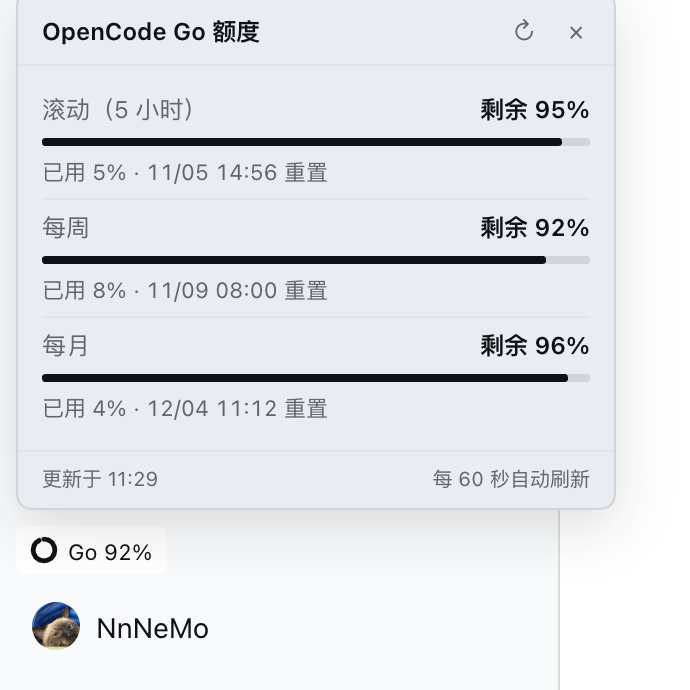
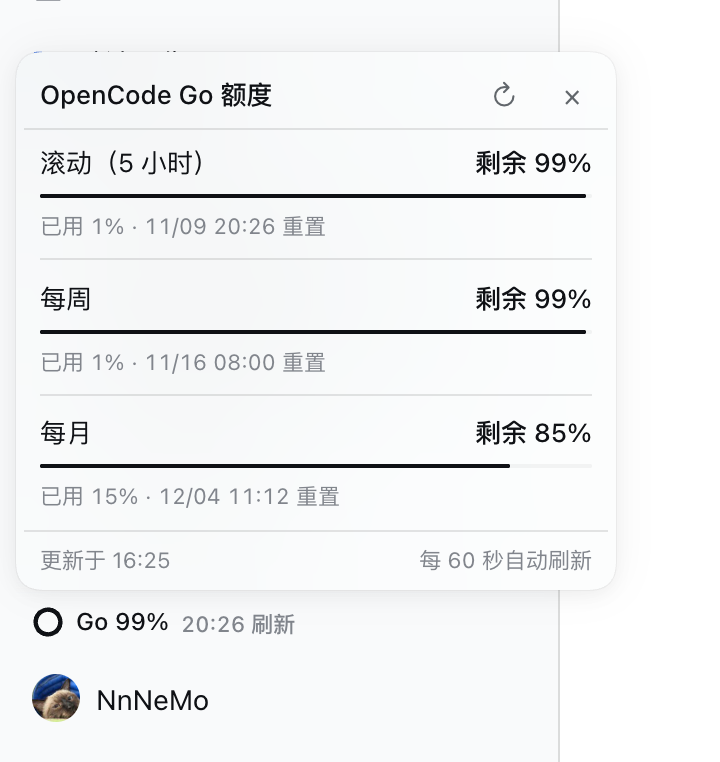
发布 @local/dsh-opencode-quota@0.1.2

diff --git a/plugins/dsh-opencode-quota/client.js b/plugins/dsh-opencode-quota/client.js
@@ -7,8 +7,9 @@
  * times.
  *
  * Numbers come from the Host route `GET /plugins/opencode-quota/usage`; the API
- * key stays in the Host process. The chip shows the *tightest* remaining window
- * so one glance answers "how much is left"; the popover carries the details.
+ * key stays in the Host process. The chip previews the rolling (5-hour) window —
+ * the one that refills fastest and therefore decides whether a heavy session can
+ * continue — and names the time it refreshes; the popover carries every window.
  */
 window.__ModuleLoader__.load({
   id: '@local/dsh-opencode-quota',
@@ -34,7 +35,9 @@ window.__ModuleLoader__.load({
 
     const zh = {
       'chip.label': 'Go',
-      'chip.title': 'OpenCode Go 剩余 {remaining}%',
+      'chip.title': 'OpenCode Go · 5 小时额度剩 {remaining}%',
+      'chip.reset': '{time} 刷新',
+      'chip.resetSoon': '即将刷新',
       'chip.unknown': 'OpenCode Go 额度',
       'panel.title': 'OpenCode Go 额度',
       'panel.refresh': '刷新',
@@ -58,7 +61,9 @@ window.__ModuleLoader__.load({
 
     const en = {
       'chip.label': 'Go',
-      'chip.title': 'OpenCode Go · {remaining}% left',
+      'chip.title': 'OpenCode Go · 5h quota {remaining}% left',
+      'chip.reset': 'resets {time}',
+      'chip.resetSoon': 'resets soon',
       'chip.unknown': 'OpenCode Go quota',
       'panel.title': 'OpenCode Go quota',
       'panel.refresh': 'Refresh',
@@ -162,25 +167,55 @@ window.__ModuleLoader__.load({
     }
 
     /**
-     * Summarize the windows as the chip shows them: the tightest remaining
-     * window, so one glance answers "how much is left".
+     * Format one reset timestamp as the short clock the chip shows beside the
+     * percentage: `HH:mm` on the same day, `MM/DD HH:mm` otherwise.
+     * @param iso - the upstream timestamp.
+     * @param localeId - the active locale id.
+     * @param now - current epoch milliseconds.
+     * @returns the short local time, or null when unusable.
+     */
+    function formatResetClock(iso, localeId, now) {
+      if (typeof iso !== 'string') return null
+      const date = new Date(iso)
+      if (Number.isNaN(date.getTime())) return null
+      const reference = new Date(typeof now === 'number' && Number.isFinite(now) ? now : Date.now())
+      const sameDay =
+        date.getFullYear() === reference.getFullYear() &&
+        date.getMonth() === reference.getMonth() &&
+        date.getDate() === reference.getDate()
+      try {
+        return new Intl.DateTimeFormat(dictOf(localeId) === zh ? 'zh-CN' : 'en-US', {
+          ...(sameDay ? {} : { month: '2-digit', day: '2-digit' }),
+          hour: '2-digit',
+          minute: '2-digit',
+          hour12: false,
+        }).format(date)
+      } catch {
+        return date.toISOString()
+      }
+    }
+
+    /**
+     * Summarize the windows as the chip previews them: the rolling (5-hour)
+     * window only. It is the fastest window to refill, so it decides whether a
+     * long session can keep going; the other windows stay in the popover.
      * @param windows - projected windows from the Host route, or null.
-     * @returns the remaining percentage and its severity bucket.
+     * @returns the remaining percentage, its severity bucket and the reset time.
      */
     function summarize(windows) {
-      let tightest = null
-      if (windows !== null && windows !== undefined) {
-        for (const key of WINDOW_KEYS) {
-          const entry = windows[key] === undefined || windows[key] === null ? null : windows[key]
-          const used = entry === null ? null : entry.usedPercent
-          if (typeof used !== 'number' || !Number.isFinite(used)) continue
-          const remaining = Math.max(0, Math.min(100, 100 - used))
-          if (tightest === null || remaining < tightest) tightest = remaining
-        }
-      }
+      const rolling = windows === null || windows === undefined ? null : windows.rolling
+      const entry = rolling === null || typeof rolling !== 'object' ? {} : rolling
+      const used = entry.usedPercent
+      const remaining =
+        typeof used === 'number' && Number.isFinite(used)
+          ? Math.max(0, Math.min(100, 100 - used))
+          : typeof entry.remainingPercent === 'number' && Number.isFinite(entry.remainingPercent)
+            ? Math.max(0, Math.min(100, entry.remainingPercent))
+            : null
       return {
-        remaining: tightest === null ? null : Math.round(tightest),
-        severity: severityOf(tightest),
+        remaining: remaining === null ? null : Math.round(remaining),
+        severity: severityOf(remaining),
+        resetsAt: typeof entry.resetsAt === 'string' ? entry.resetsAt : null,
       }
     }
 
@@ -229,8 +264,8 @@ window.__ModuleLoader__.load({
      * @returns one element per window.
      */
     function buildRowElements(models, t) {
-      return models.map((row) =>
-        h(
+      return models.flatMap((row, index) => {
+        const element = h(
           'div',
           { key: row.key, className: 'oq-row' },
           h(
@@ -254,8 +289,11 @@ window.__ModuleLoader__.load({
             row.resetText === null ? null : ` · ${t('window.reset', { time: row.resetText })}`,
             row.statusText === null ? null : ` · ${row.statusText}`,
           ),
-        ),
-      )
+        )
+        return index === 0
+          ? [element]
+          : [h('div', { key: `sep-${row.key}`, className: 'oq-sep' }), element]
+      })
     }
 
     /**
@@ -420,7 +458,7 @@ window.__ModuleLoader__.load({
           const left = Math.max(8, Math.min(rect.left, window.innerWidth - width - 8))
           setPlacement({
             left,
-            bottom: Math.max(8, window.innerHeight - rect.top + 8),
+            bottom: Math.max(8, window.innerHeight - rect.top + 4),
             width,
             maxHeight: Math.max(120, Math.min(rect.top - 16, window.innerHeight - 24)),
           })
@@ -459,14 +497,24 @@ window.__ModuleLoader__.load({
         const severity = summary.severity
         const narrow = props.wide === false
         const stale = snapshot.phase === 'error'
+        const now = Date.now()
+        const resetAt = summary.resetsAt === null ? Number.NaN : Date.parse(summary.resetsAt)
+        const resetDue = Number.isFinite(resetAt) && resetAt <= now
+        const resetClock = resetDue ? null : formatResetClock(summary.resetsAt, localeId, now)
+        const resetText = resetDue
+          ? t('chip.resetSoon')
+          : resetClock === null
+            ? null
+            : t('chip.reset', { time: resetClock })
         const chipTitle =
           (rounded === null ? t('chip.unknown') : t('chip.title', { remaining: rounded })) +
+          (resetText === null ? '' : ` · ${resetText}`) +
           (stale ? ` · ${t('panel.error')}` : '')
-        // The 56px rail has no room for the label: keep the ring, the tooltip
-        // and the popover, and drop the text.
+        // The 56px rail has no room for the label or the reset clock: keep the
+        // ring, the tooltip and the popover, and drop the text.
         const chipText = narrow ? null : rounded === null ? t('chip.label') : `${t('chip.label')} ${rounded}%`
 
-        const ringRadius = 5.4
+        const ringRadius = 6.2
         const ringLength = 2 * Math.PI * ringRadius
         const ringArc = rounded === null ? 0 : (rounded / 100) * ringLength
         const ring = h(
@@ -474,31 +522,31 @@ window.__ModuleLoader__.load({
           {
             key: 'ring',
             className: 'oq-ring',
-            viewBox: '0 0 14 14',
-            width: 14,
-            height: 14,
+            viewBox: '0 0 16 16',
+            width: 16,
+            height: 16,
             'aria-hidden': 'true',
             focusable: 'false',
           },
           h('circle', {
-            cx: 7,
-            cy: 7,
+            cx: 8,
+            cy: 8,
             r: ringRadius,
             fill: 'none',
             stroke: 'currentColor',
-            strokeOpacity: 0.22,
-            strokeWidth: 2.4,
+            strokeOpacity: 0.2,
+            strokeWidth: 2.2,
           }),
           h('circle', {
-            cx: 7,
-            cy: 7,
+            cx: 8,
+            cy: 8,
             r: ringRadius,
             fill: 'none',
             stroke: 'currentColor',
-            strokeWidth: 2.4,
+            strokeWidth: 2.2,
             strokeLinecap: 'round',
             strokeDasharray: `${ringArc} ${ringLength - ringArc}`,
-            transform: 'rotate(-90 7 7)',
+            transform: 'rotate(-90 8 8)',
           }),
         )
 
@@ -520,6 +568,7 @@ window.__ModuleLoader__.load({
           },
           ring,
           chipText === null ? null : h('span', { className: 'oq-chip-text' }, chipText),
+          resetText === null || narrow ? null : h('span', { className: 'oq-chip-reset' }, resetText),
         )
 
         const rows = buildRowElements(rowModels(windows, t, localeId), t)
@@ -552,41 +601,45 @@ window.__ModuleLoader__.load({
     }
 
     const CSS = `
-.oq-chip{box-sizing:border-box;display:inline-flex;align-items:center;gap:5px;height:24px;padding:0 7px;border:0;border-radius:6px;background:transparent;color:var(--dsw-alias-label-secondary);font:inherit;font-size:11px;line-height:1;cursor:pointer;white-space:nowrap}
-.oq-chip:hover{background:var(--dsw-alias-bg-layer-2);color:var(--dsw-alias-label-primary)}
-.oq-chip:focus-visible{outline:1px solid var(--dsw-alias-brand-primary);outline-offset:1px}
+@keyframes oq-in{from{opacity:0}to{opacity:1}}
+.oq-chip{box-sizing:border-box;display:inline-flex;align-items:center;gap:6px;height:24px;max-width:min(160px,100%);padding:0 8px;border:0;border-radius:var(--dsw-radius-sm,8px);background:transparent;color:var(--dsw-alias-label-secondary);font:inherit;font-size:12px;line-height:18px;font-weight:500;cursor:pointer;white-space:nowrap;transition:background-color .15s}
+.oq-chip:hover{background-color:var(--dsw-alias-interactive-bg-hover,#2631480f);color:var(--dsw-alias-label-primary)}
+.oq-chip:focus-visible{outline:var(--dsw-focus-ring-width,2px) solid var(--dsw-focus-ring-color,var(--dsw-alias-state-business-primary));outline-offset:-2px}
 .oq-chip.oq-ok .oq-ring{color:var(--dsw-alias-brand-primary)}
 .oq-chip.oq-warn .oq-ring{color:var(--dsw-alias-state-warn-primary)}
 .oq-chip.oq-error .oq-ring{color:var(--dsw-alias-state-error-primary)}
 .oq-chip.oq-compact{width:24px;height:24px;padding:0;justify-content:center;gap:0}
-.oq-chip-text{font-variant-numeric:tabular-nums;color:var(--dsw-alias-label-primary)}
+.oq-chip-text{min-width:0;overflow:hidden;text-overflow:ellipsis;color:var(--dsw-alias-label-primary);font-weight:500;font-variant-numeric:tabular-nums}
+.oq-chip-reset{flex:none;color:var(--dsw-alias-label-tertiary);font-size:11px;line-height:15px;font-variant-numeric:tabular-nums}
 .oq-ring{flex:none;display:block}
-.oq-panel{position:fixed;z-index:320;box-sizing:border-box;display:flex;flex-direction:column;overflow:hidden;color:var(--dsw-alias-label-primary);background:var(--dsw-alias-bg-overlay);border:1px solid var(--dsw-alias-border-l2);border-radius:10px;box-shadow:0 8px 28px color-mix(in srgb,var(--dsw-alias-label-primary) 14%,transparent);font-size:12px}
-.oq-head{display:flex;align-items:center;gap:4px;padding:8px 8px 6px 12px;border-bottom:1px solid var(--dsw-alias-border-l1)}
-.oq-title{flex:1 1 auto;min-width:0;font-size:12px;font-weight:600;overflow:hidden;text-overflow:ellipsis;white-space:nowrap}
-.oq-tool{width:22px;height:22px;flex:none;display:inline-flex;align-items:center;justify-content:center;border:0;border-radius:5px;background:transparent;color:var(--dsw-alias-label-secondary);font:inherit;font-size:13px;line-height:1;cursor:pointer}
-.oq-tool:hover{background:var(--dsw-alias-bg-layer-2);color:var(--dsw-alias-label-primary)}
-.oq-tool:disabled{opacity:.45;cursor:default}
-.oq-body{flex:1 1 auto;min-height:0;overflow-y:auto;padding:8px 12px}
-.oq-row{padding:5px 0}
-.oq-row+.oq-row{border-top:1px solid var(--dsw-alias-border-l1)}
-.oq-row-head{display:flex;align-items:baseline;justify-content:space-between;gap:10px}
-.oq-k{color:var(--dsw-alias-label-secondary);white-space:nowrap}
-.oq-v{font-variant-numeric:tabular-nums;font-weight:600;white-space:nowrap}
-.oq-v.oq-ok{color:var(--dsw-alias-label-primary)}
+.oq-panel{position:fixed;z-index:1100;box-sizing:border-box;display:flex;flex-direction:column;overflow:hidden;isolation:isolate;color:var(--dsw-alias-label-primary);background:var(--dsw-menu-surface-fill,rgba(252,253,254,.7));-webkit-backdrop-filter:var(--dsw-menu-backdrop-filter,blur(40px) saturate(150%));backdrop-filter:var(--dsw-menu-backdrop-filter,blur(40px) saturate(150%));border-radius:var(--dsw-radius-lg,16px);box-shadow:0 0 0 .5px var(--dsw-alias-border-l1,rgba(0,0,0,.04)),0 3px 8px rgba(0,0,0,.04),0 0 20px rgba(0,0,0,.05);font-size:13px;line-height:20px;padding:4px;animation:oq-in 40ms ease-out}
+@supports not ((backdrop-filter:blur(1px)) or (-webkit-backdrop-filter:blur(1px))){.oq-panel{background:var(--dsw-alias-bg-layer-2,#fff)}}
+@media (prefers-reduced-motion:reduce){.oq-panel{animation:none}}
+.oq-head{display:flex;align-items:center;gap:6px;flex:0 0 auto;height:34px;padding:0 4px 0 8px;border-bottom:.5px solid var(--dsw-alias-border-l2,rgba(0,0,0,.1))}
+.oq-title{flex:1 1 auto;min-width:0;font-size:13px;line-height:20px;font-weight:500;overflow:hidden;text-overflow:ellipsis;white-space:nowrap}
+.oq-tool{width:28px;height:28px;flex:none;display:inline-flex;align-items:center;justify-content:center;margin:0;border:0;border-radius:var(--dsw-radius-sm,8px);background:transparent;color:var(--dsw-alias-label-secondary);font:inherit;font-size:15px;line-height:1;cursor:pointer}
+.oq-tool:hover{background-color:var(--dsw-alias-interactive-bg-hover,#2631480f);color:var(--dsw-alias-label-primary)}
+.oq-tool:focus-visible{outline:var(--dsw-focus-ring-width,2px) solid var(--dsw-focus-ring-color,var(--dsw-alias-state-business-primary));outline-offset:2px}
+.oq-tool:disabled{opacity:.4;cursor:default}
+.oq-body{flex:1 1 auto;min-height:0;overflow-y:auto;padding:0 0 4px}
+.oq-row{display:flex;flex-direction:column;gap:6px;box-sizing:border-box;min-height:34px;padding:6px 8px}
+.oq-sep{height:.5px;margin:3px 8px;background:var(--dsw-alias-border-l2,rgba(0,0,0,.1))}
+.oq-row-head{display:flex;align-items:baseline;justify-content:space-between;gap:8px}
+.oq-k{color:var(--dsw-alias-label-primary);font-size:13px;line-height:20px;white-space:nowrap}
+.oq-v{color:var(--dsw-alias-label-primary);font-size:13px;line-height:20px;font-weight:500;font-variant-numeric:tabular-nums;white-space:nowrap}
 .oq-v.oq-warn{color:var(--dsw-alias-state-warn-primary)}
 .oq-v.oq-error{color:var(--dsw-alias-state-error-primary)}
-.oq-bar{position:relative;height:4px;margin-top:6px;border-radius:2px;overflow:hidden;background:color-mix(in srgb,var(--dsw-alias-label-secondary) 18%,transparent)}
-.oq-bar-fill{display:block;height:100%;border-radius:2px;background:var(--dsw-alias-brand-primary)}
+.oq-bar{position:relative;height:2px;border-radius:1px;overflow:hidden;background:var(--dsw-alias-bg-skeleton,rgba(0,0,0,.04))}
+.oq-bar-fill{display:block;height:100%;border-radius:1px;background:var(--dsw-alias-brand-primary);transition:width .3s cubic-bezier(.4,0,.2,1)}
 .oq-bar-fill.oq-warn{background:var(--dsw-alias-state-warn-primary)}
 .oq-bar-fill.oq-error{background:var(--dsw-alias-state-error-primary)}
-.oq-sub{margin-top:5px;color:var(--dsw-alias-label-secondary);font-size:11px;font-variant-numeric:tabular-nums}
-.oq-note{padding:6px 0;color:var(--dsw-alias-label-secondary)}
-.oq-error-title{color:var(--dsw-alias-state-error-primary);font-weight:600}
-.oq-error-hint{margin-top:4px;color:var(--dsw-alias-label-secondary);font-size:11px;line-height:1.5}
-.oq-retry{margin-top:8px;display:inline-flex;align-items:center;height:24px;padding:0 10px;border:1px solid var(--dsw-alias-border-l2);border-radius:6px;background:var(--dsw-alias-bg-layer-2);color:var(--dsw-alias-label-primary);font:inherit;font-size:11px;cursor:pointer}
-.oq-retry:hover{border-color:var(--dsw-alias-label-secondary)}
-.oq-foot{display:flex;align-items:baseline;justify-content:space-between;gap:8px;padding:6px 12px 8px;border-top:1px solid var(--dsw-alias-border-l1);color:var(--dsw-alias-label-secondary);font-size:10px}
+.oq-sub{color:var(--dsw-alias-label-tertiary);font-size:11px;line-height:15px;font-variant-numeric:tabular-nums}
+.oq-note{padding:8px 8px 10px;color:var(--dsw-alias-label-secondary)}
+.oq-error-title{color:var(--dsw-alias-state-error-primary);font-size:13px;line-height:20px;font-weight:500}
+.oq-error-hint{margin-top:2px;color:var(--dsw-alias-label-tertiary);font-size:11px;line-height:15px}
+.oq-retry{margin-top:10px;display:inline-flex;align-items:center;height:28px;padding:0 10px;border:.5px solid var(--dsw-alias-border-l3,rgba(0,0,0,.12));border-radius:var(--dsw-radius-sm,8px);background:transparent;color:var(--dsw-alias-label-primary);font:inherit;font-size:12px;line-height:18px;cursor:pointer}
+.oq-retry:hover{background-color:var(--dsw-alias-interactive-bg-hover,#2631480f)}
+.oq-foot{display:flex;align-items:center;justify-content:space-between;gap:8px;padding:6px 8px 4px;border-top:.5px solid var(--dsw-alias-border-l2,rgba(0,0,0,.1));color:var(--dsw-alias-label-tertiary);font-size:11px;line-height:15px}
 `
 
     /** Client plugin entry. */
@@ -616,7 +669,7 @@ window.__ModuleLoader__.load({
     return {
       apply,
       inject,
-      _internals: { translate, dictOf, severityOf, summarize, rowModels, buildRowElements, buildBody, buildPanel, formatReset, formatTime },
+      _internals: { translate, dictOf, severityOf, summarize, rowModels, buildRowElements, buildBody, buildPanel, formatReset, formatResetClock, formatTime },
     }
   },
 })

diff --git a/plugins/dsh-opencode-quota/README.md b/plugins/dsh-opencode-quota/README.md
@@ -1,16 +1,20 @@
 # OpenCode Go 额度（@local/dsh-opencode-quota）
 
-把 OpenCode Go 订阅的**剩余额度**放到 Harness Web 页面的左下角：侧栏底部 Settings 旁的一个小徽章，一眼看到最紧的那个窗口还剩多少；点开是一张悬浮面板，列出滚动（5 小时）、每周、每月三个窗口的已用 / 剩余百分比与重置时间。
+把 OpenCode Go 订阅的**剩余额度**放到 Harness Web 页面的左下角：侧栏底部账号入口上方的一个小徽章，**默认预览滚动（5 小时）窗口**还剩多少、几点刷新；点开是一张与 DSH 原生菜单同材质的悬浮面板，列出滚动（5 小时）、每周、每月三个窗口的已用 / 剩余百分比与重置时间。
 
 ## 效果图
 
 ![OpenCode Go 额度效果图](docs/preview.png)
 
-*图：左下角 Settings 旁的 `Go 92%` 徽章；点开后是滚动（5 小时）、每周、每月三个窗口的剩余 / 已用百分比、重置时间与进度条。*
+*图：左下角 `Go 99% · 20:26 刷新` 徽章——预览的是 5 小时滚动窗口，后面是它的刷新时间；点开后是与 DSH 原生菜单一致的磨砂悬浮面板，列出三个窗口的剩余 / 已用百分比、重置时间与进度条。*
+
+![深色主题下的额度面板](docs/preview-dark.png)
+
+*图：同一面板在深色主题下；磨砂底、分隔线、文字与状态色全部取自 DSH token，随主题自动切换。*
 
 ## 为什么是这个位置
 
-`sidebar.footer.action` 槽位就是"页面左下角、Settings 旁边"这一个座位。它不占用侧栏导航项，也不进输入框，和已有按钮同高同风格；侧栏收起成 56px 轨道时（`wide === false`）只留圆环，百分比进 title。
+`sidebar.footer.action` 槽位就是页面左下角、账号入口上方这一行。它不占用侧栏导航项，也不进输入框，高度（24px）、圆角（8px）与 hover 背景都跟原生 footer 按钮一致；侧栏收起成 56px 轨道时（`wide === false`）只留圆环，百分比和刷新时间进 title。
 
 ## 数据从哪来
 
@@ -36,11 +40,13 @@ opencode.ai 订阅用量接口
 
 | 位置 | 内容 |
 | --- | --- |
-| 徽章 | 剩余最少窗口的剩余百分比：圆环进度 + `Go NN%`；侧栏收起成 56px 轨道时只显示圆环（悬停 title 里有百分比） |
+| 徽章 | 预览**滚动（5 小时）**窗口：圆环进度 + `Go NN%` + `HH:mm 刷新`。5 小时窗口是恢复最快、真正决定"这一轮还能不能继续跑"的那一个；每周 / 每月在面板里看 |
+| 刷新时间 | 当天只显示 `HH:mm`，跨天显示 `MM/DD HH:mm`；已到重置时刻显示「即将刷新」 |
 | 圆环颜色 | ≥30% 用品牌色，10–29% 用 warn，<10% 用 error |
 | 悬浮面板 | 三个窗口：剩余 %、已用 %、重置时间、进度条 |
+| 风格 | 沿用 DSH 原生浮层配方：`--dsw-menu-surface-fill` 磨砂底 + `blur(40px) saturate(150%)`、16px 圆角、`elevation-prominent` 阴影、13px/20px 字号、0.5px 分隔线、hover 用 `--dsw-alias-interactive-bg-hover`；深色主题自动跟随 |
 | 刷新 | 关闭面板时 5 分钟一次；打开后 60 秒一次；面板内 `↻` 手动刷新；刷新失败时保留上次数字并在面板脚注标注「显示上次结果」 |
-| 交互 | 点击开合，`Esc` 或点击面板外关闭，面板锚定在徽章上方并自动避让视口边缘 |
+| 交互 | 点击开合，`Esc` 或点击面板外关闭，面板锚定在徽章上方 4px 处并自动避让视口边缘 |
 
 ## 安装
 
@@ -50,7 +56,7 @@ opencode.ai 订阅用量接口
 dsh plugin --profile desktop add "git+https://github.com/15926719006/dsh-plugins-market.git#main&path:/plugins/dsh-opencode-quota"
 ```
 
-安装后刷新页面，左下角 Settings 旁出现 `Go NN%`。
+安装后刷新页面，左下角账号入口上方出现 `Go NN% · HH:mm 刷新`。
 
 ## 配置
 
@@ -65,6 +71,7 @@ dsh-opencode-quota/
 ├── index.js            # Host：凭据解析 + /plugins/opencode-quota/usage 只读路由
 ├── client.js           # Client：sidebar.footer.action 徽章 + 悬浮面板
 ├── locale/zh.json      # 插件列表里的标题/描述
+├── docs/preview.png    # README / 插件详情页的效果图（真实运行截图）
 ├── locale/en.json
 └── icon.svg            # 原创图标：剩余额度仪表环
 ```
